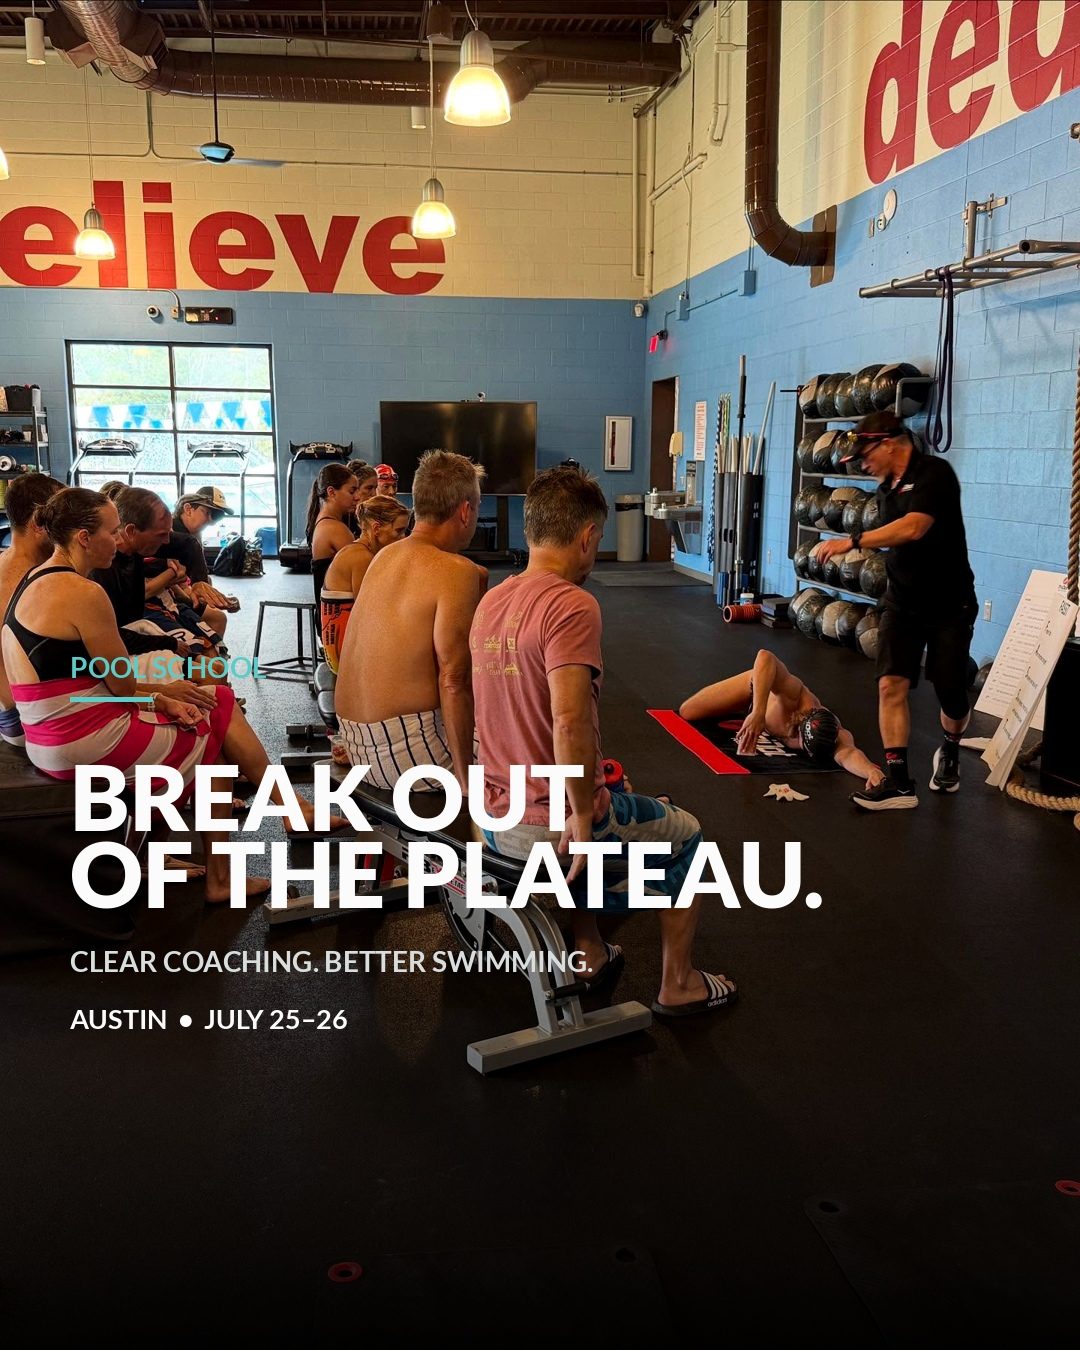
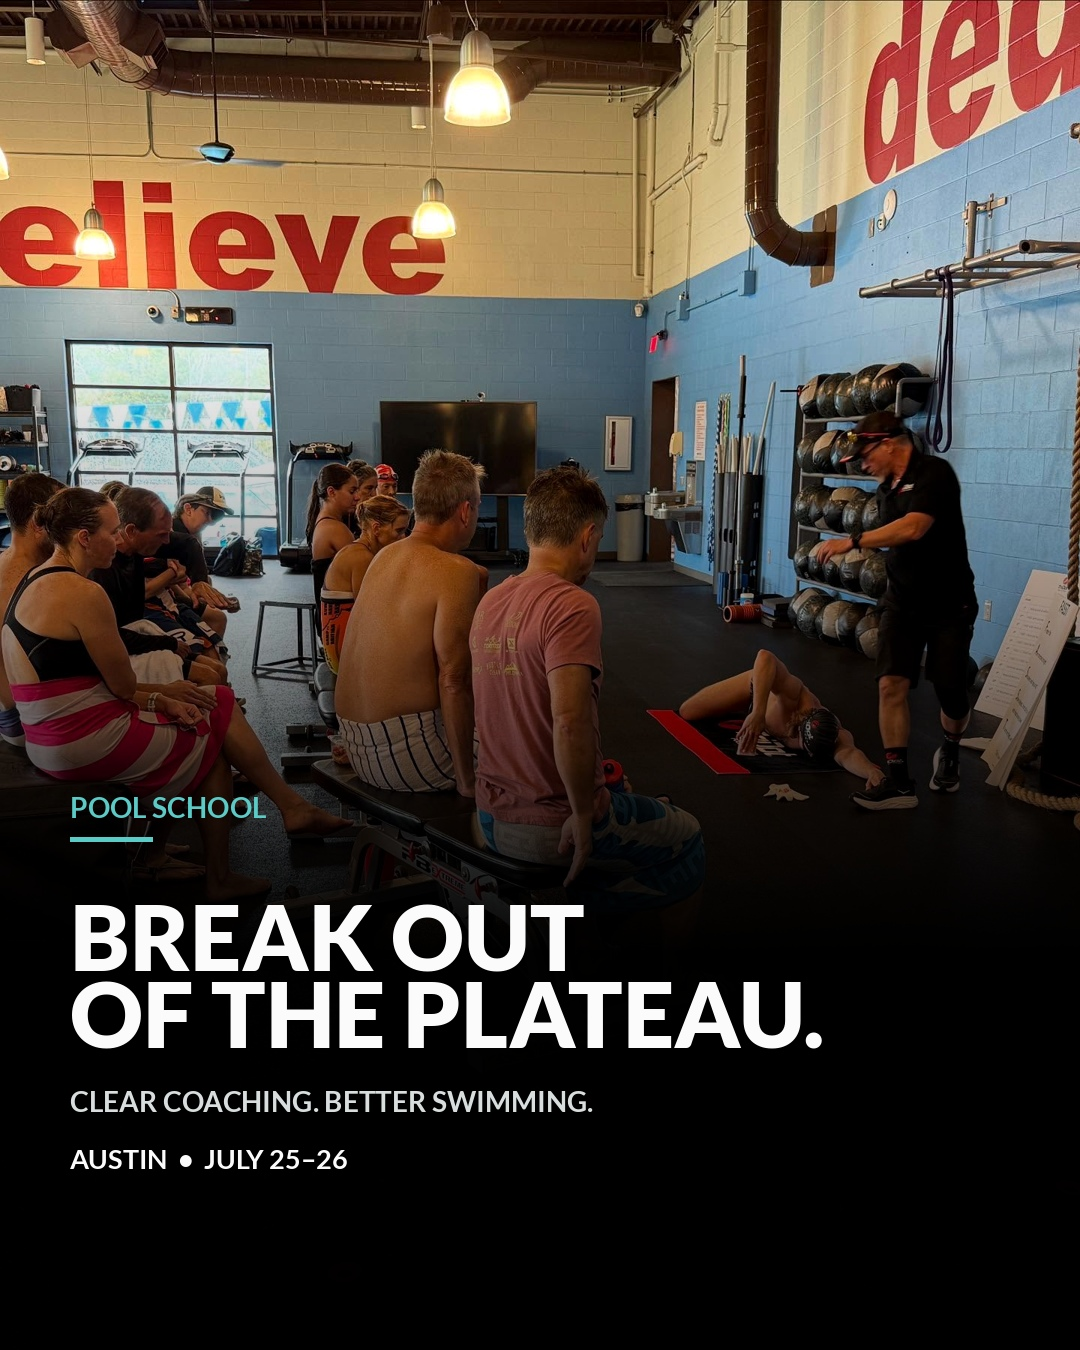
Move Austin campaign copy into deeper dark footer fade

diff --git a/austin-pool-school-review/index.html b/austin-pool-school-review/index.html
@@ -15,5 +15,5 @@ const posts=[
 ['08-detail-matters.jpg','VALUE','The details make the difference','Small technique changes can lead to meaningful progress. Get focused coaching and drills designed to help you apply it back in your own training.'],
 ['09-personal-feedback.jpg','VALUE','Real-time feedback','See it. Understand it. Practice it. Bring your swim questions to Austin and leave with practical tools for your next session.'],
 ['10-austin-register-now.jpg','EVENT PROMO','Austin Pool School: Register now','July 25–26, 2026 · Austin Aquatics and Sports Academy · $599\n\nYour next opportunity to break out of the dreaded swim plateau starts here. Register now.']
-];let i=0;const $=id=>document.getElementById(id);function render(){let p=posts[i];$('title').textContent=`Post ${i+1} of ${posts.length}`;$('graphic').src='./assets/'+p[0]+'?v=dark-fade-tight-20260710';$('headline').textContent=p[2];$('caption').textContent=p[3];$('type').textContent=p[1];$('prev').disabled=i===0;$('next').disabled=i===posts.length-1;$('thumbs').innerHTML=posts.map((x,n)=>`<button class="thumb ${n===i?'active':''}" aria-label="View post ${n+1}" onclick="go(${n})"><img src="./assets/${x[0]}?v=dark-fade-tight-20260710"></button>`).join('')};function go(n){i=n;render()}$('prev').onclick=()=>go(i-1);$('next').onclick=()=>go(i+1);document.addEventListener('keydown',e=>{if(e.key==='ArrowLeft'&&i)go(i-1);if(e.key==='ArrowRight'&&i<posts.length-1)go(i+1)});render();
+];let i=0;const $=id=>document.getElementById(id);function render(){let p=posts[i];$('title').textContent=`Post ${i+1} of ${posts.length}`;$('graphic').src='./assets/'+p[0]+'?v=dark-footer-20260710';$('headline').textContent=p[2];$('caption').textContent=p[3];$('type').textContent=p[1];$('prev').disabled=i===0;$('next').disabled=i===posts.length-1;$('thumbs').innerHTML=posts.map((x,n)=>`<button class="thumb ${n===i?'active':''}" aria-label="View post ${n+1}" onclick="go(${n})"><img src="./assets/${x[0]}?v=dark-footer-20260710"></button>`).join('')};function go(n){i=n;render()}$('prev').onclick=()=>go(i-1);$('next').onclick=()=>go(i+1);document.addEventListener('keydown',e=>{if(e.key==='ArrowLeft'&&i)go(i-1);if(e.key==='ArrowRight'&&i<posts.length-1)go(i+1)});render();
 </script></body></html>
